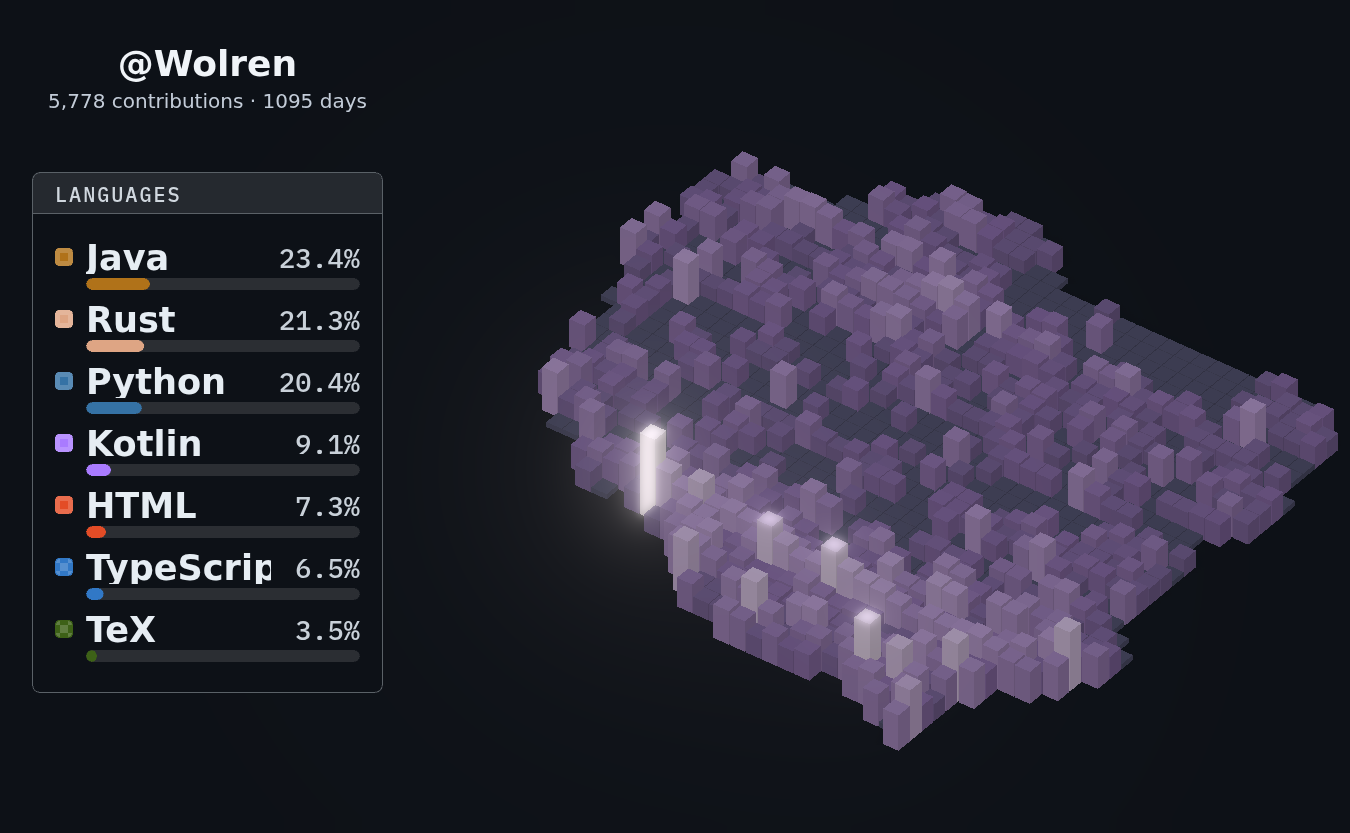
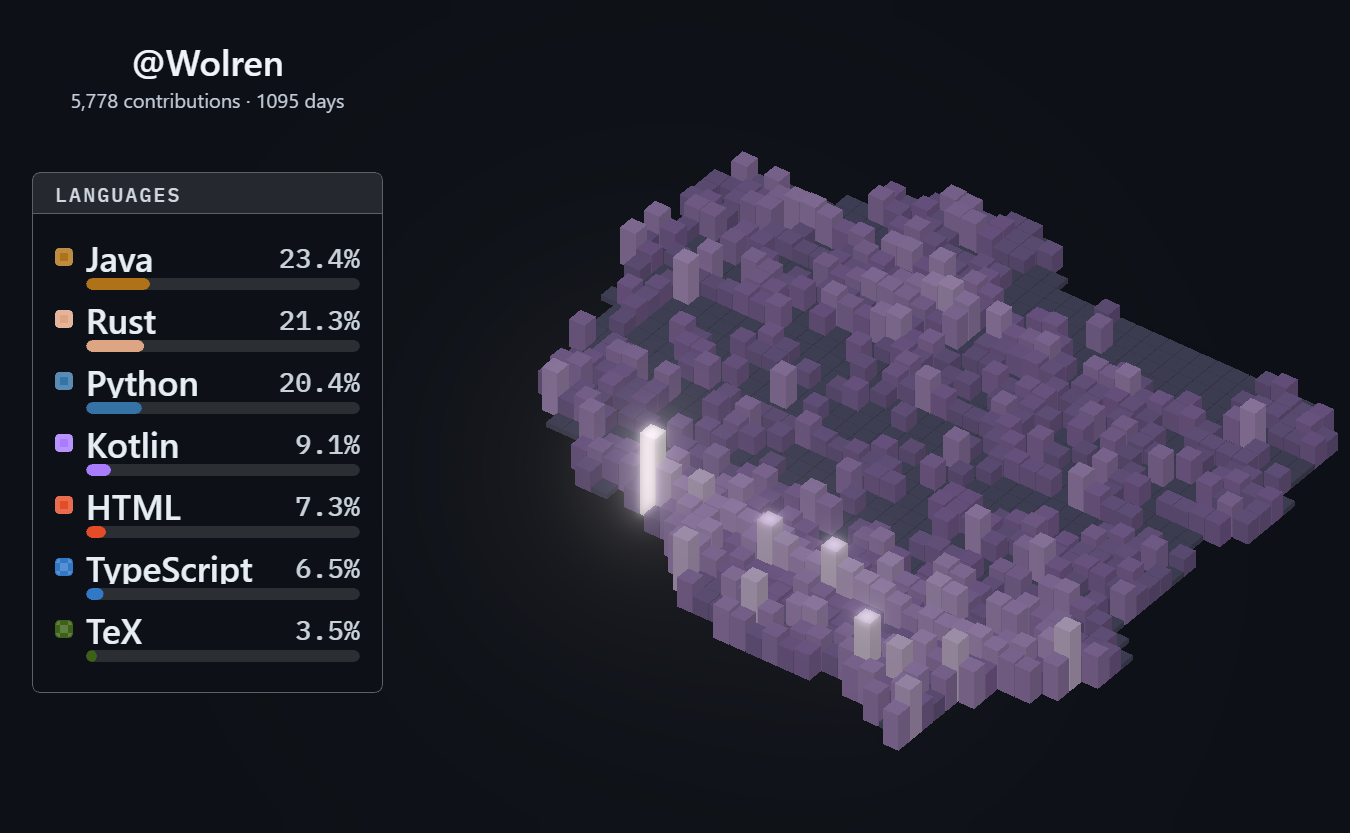
fix: keep long language names inside the panel
The name box reserved 82 units for the percentage, which clipped
TypeScript to TypeScrip. It reserves 72 units now and the label fits.

diff --git a/web/src/ui/widget-languages.ts b/web/src/ui/widget-languages.ts
@@ -99,7 +99,7 @@ function renderLanguages(container: HTMLElement, id: string): void {
     name.style.position = 'absolute';
     name.style.left = Math.round((PAD + CHIP + 10) * u) + 'px';
     name.style.top = Math.round(2 * u) + 'px';
-    name.style.right = Math.round((PAD + 66) * u) + 'px';
+    name.style.right = Math.round((PAD + 56) * u) + 'px';
     name.style.color = '#e6edf3';
     name.style.fontSize = (NAME_PX * u).toFixed(1) + 'px';
     name.style.fontWeight = '600';
